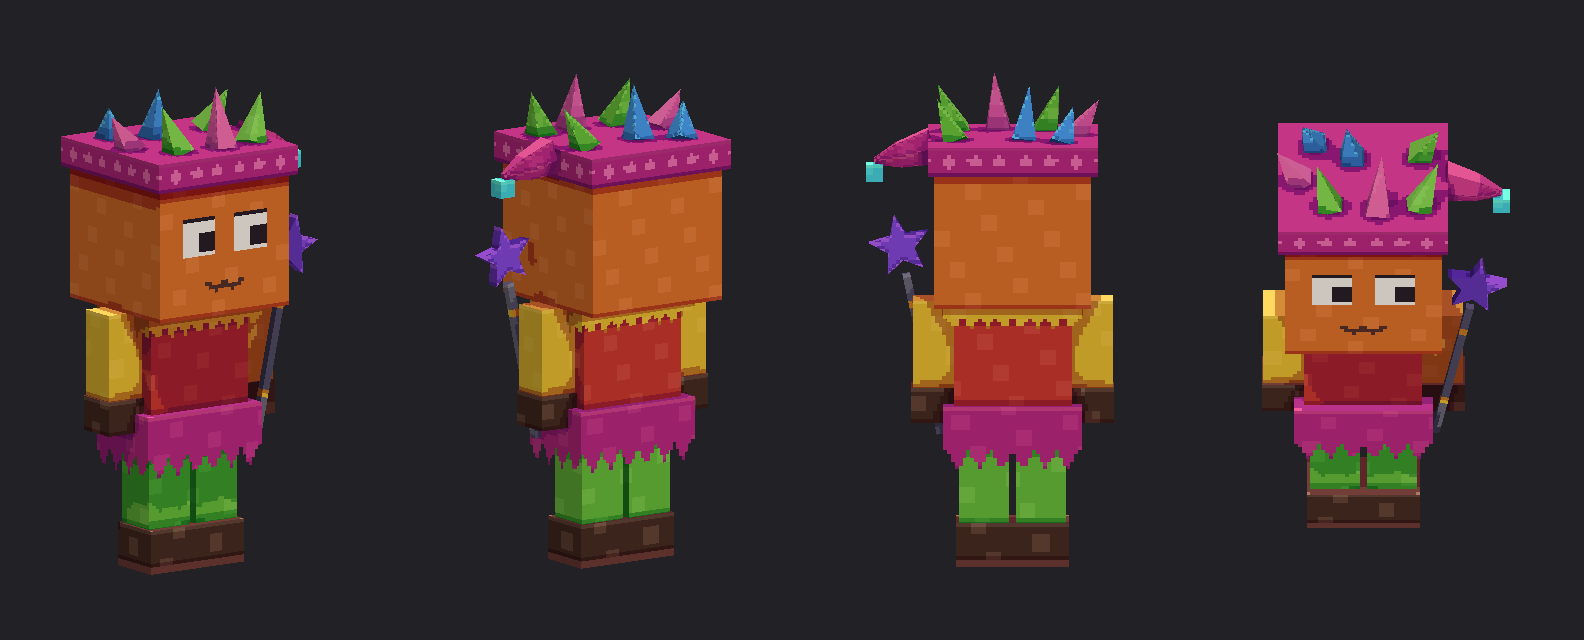
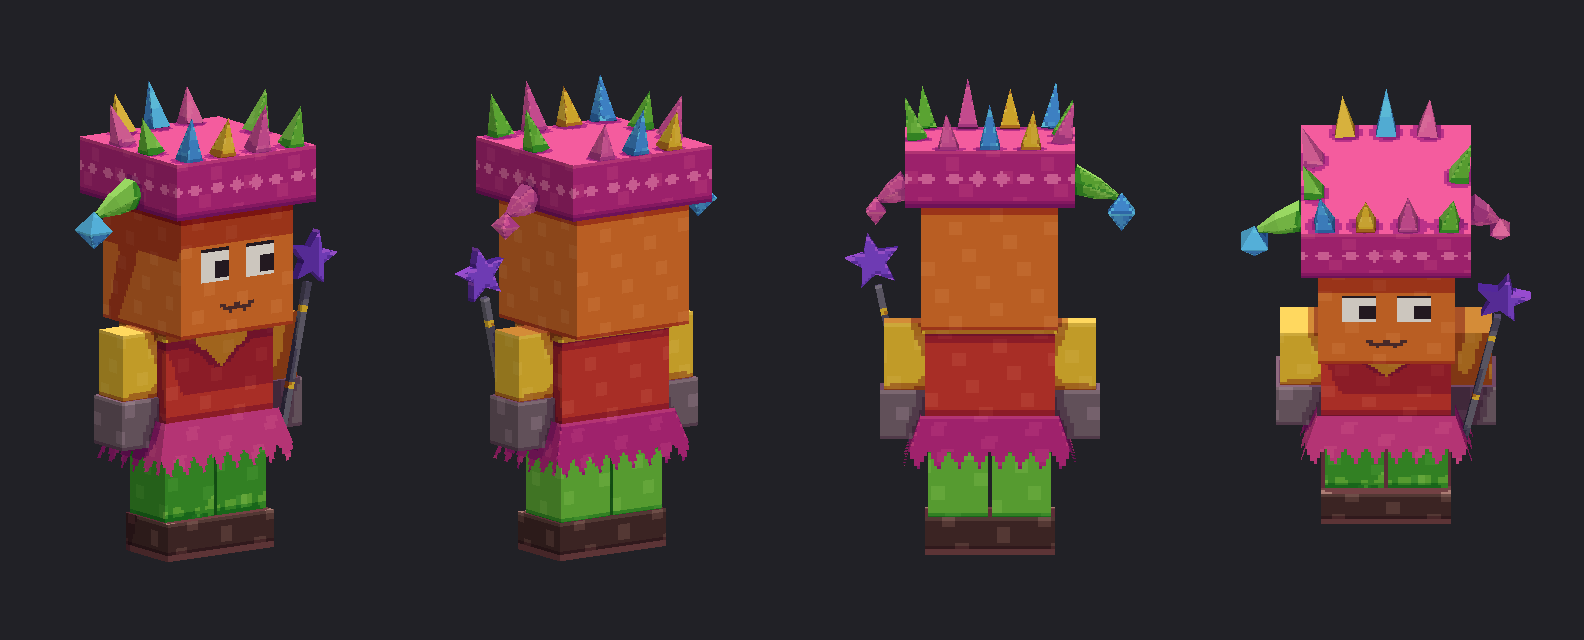
Revolthir boceto 2: las formas marcadas con rayas blancas
Siguiendo las rayas que el usuario dibujo sobre la imagen
(referencias/personajes/revolthir_bufon_rayas.jpg):
- corona de bufon en caja grande, mas ancha que la cabeza, con rombos y
  picos de colores en el borde de arriba
- dos puntas a los costados con cascabeles facetados (uno grande azul,
  uno chico rosa)
- torso rojo mas ancho con cuello amarillo en punta bajo la cara
- faldon magenta que se abre hacia abajo y termina en picos
- punos grandes, piernas verdes gruesas que se ven bajo el faldon y botas
  en bloque
Sigue con la altura de Pibble (la cabeza llega a 27; la corona y sus picos,
como las orejas de Pibble, a ~34).

Claude-Session: https://claude.ai/code/session_01JLSuk79QgXUucDMTiBYitK

diff --git a/taller/personajes/revolthir.py b/taller/personajes/revolthir.py
@@ -1,13 +1,16 @@
 """
 Revolthir, NSWY de la negacion: chibi de caos y colores calidos. Hecho a mano con el kit segun la imagen que paso el
-usuario (referencias/personajes/revolthir_bufon.jpg, un bufon voxel). Reglas: no es humano (cabeza-cubo naranja, sin piel), chibi de la misma altura que Pibble
-(nada mas que la altura), estilo propio: carnaval caotico, ni desertico, ni japones, ni de bosque.
+usuario (referencias/personajes/revolthir_bufon.jpg) y las formas que marco encima con rayas blancas
+(revolthir_bufon_rayas.jpg). Reglas: no es humano (cabeza-cubo naranja, sin piel), chibi de la misma altura que
+Pibble (nada mas que la altura), estilo propio: carnaval caotico, ni desertico, ni japones, ni de bosque.
 
-Piezas (todo cubos, como un voxel; picos y estrella en low-poly):
+Formas (todo en bloques, como la referencia; picos, cascabeles y estrella en low-poly):
   CABEZA-CUBO naranja con ojos grandes blancos que miran de reojo y una boquita en zigzag
-  CORONA DE BUFON magenta con rombos, picos de colores para todos lados y una punta caida con cascabel
-  TORSO rojo con cuello de volados amarillo; FALDON magenta con el borde en picos
-  MANGAS amarillas, GUANTES cafe, PIERNAS verdes, BOTAS cafe
+  CORONA DE BUFON: una caja grande magenta, mas ancha que la cabeza, con rombos y picos de colores en el borde de
+    arriba; a los costados, dos puntas con cascabeles facetados (uno grande azul, uno chico rosa)
+  TORSO rojo y ancho con un cuello amarillo en punta debajo de la cara; FALDON magenta que se abre hacia abajo y
+    termina en picos
+  MANGAS amarillas con PUNOS grandes; PIERNAS verdes gruesas; BOTAS en bloque
   VARITA en la mano izquierda: baston con bandas y una estrella morada
 Paleta calida y saltona, cada color con su rampa (hue shifting) y sin ruido; el volumen lo pone la luz horneada.
 """
@@ -23,18 +26,19 @@ D = 4                                   # texeles por px
 NARANJA = tonos("#E8762C")              # la cabeza
 MAGENTA = tonos("#C42A86")              # corona y faldon
 ROJO = tonos("#D23A30")                 # torso
-AMARILLO = tonos("#F2C232")             # mangas y cuello
+AMARILLO = tonos("#F2C232")             # mangas, cuello y picos
 VERDE = tonos("#6CC23C")                # piernas y picos
-CAFE = tonos("#4A2E24")                 # guantes y botas
+GUANTE = tonos("#7A6470")               # punos
+BOTA = tonos("#4A2E2C")                 # botas
 MORADO = tonos("#8A4AE0")               # la estrella
-ROSA = tonos("#E85AA8")                 # picos
-AZUL = tonos("#4A9AE8")                 # picos
-CIAN = tonos("#4AD8E0")                 # cascabel
+ROSA = tonos("#E85AA8")                 # picos y cascabel chico
+AZUL = tonos("#4A9AE8")                 # picos y cascabel grande
 GRIS = tonos("#6E6A78")                 # baston
 OJO, PUPILA = "#FFF8EE", "#1A1218"
 
-TOPE = 27.0
-CABEZA_Y = 17.0                         # la cabeza va de 17 a 27: la altura de Pibble
+TOPE = 27.0                             # la cabeza va de 17 a 27: la altura de Pibble
+CABEZA_Y = 17.0
+PIERNAS = 9.0                           # la cadera
 
 
 def voxel(rampa):
@@ -71,7 +75,7 @@ def cara(t):
             return hex_(OJO)
     puntos = [(-1.3, 2.1), (-0.65, 1.7), (0.0, 2.1), (0.65, 1.7), (1.3, 2.1)]
     if any(_trazo(u, v, puntos[k], puntos[k + 1], 0.3) for k in range(len(puntos) - 1)):
-        return hex_(CAFE["s"])
+        return hex_(BOTA["s"])
     return voxel(NARANJA)(t)
 
 
@@ -79,26 +83,32 @@ def cabeza(t):
     return cara(t) if t.cara == "north" else voxel(NARANJA)(t)
 
 
+CORONA_Y = (TOPE - 0.8, TOPE + 3.4)     # la caja de la corona
+
+
 def corona(t):
-    """Banda magenta con una fila de rombos claros."""
-    if t.cara in ("up", "down"):
+    """Caja magenta: banda oscura abajo, una fila de rombos claros al medio y el canto de arriba con luz."""
+    if t.cara == "up":
+        return hex_(MAGENTA["l"])
+    if t.cara == "down":
         return hex_(MAGENTA["s"])
     u = t.x if t.cara in ("north", "south") else t.z
-    v = t.y - (TOPE - 0.5)
-    if abs((u % 1.6) - 0.8) + abs(v) * 1.1 < 0.5:
+    y0, y1 = CORONA_Y
+    v = t.y - (y0 + y1) / 2
+    if abs((u % 1.8) - 0.9) + abs(v) * 1.1 < 0.62:
         return hex_(ROSA["l"])
-    if abs(v) > 0.72:
+    if t.y < y0 + 0.6:
         return hex_(MAGENTA["s"])
-    return hex_(MAGENTA["b"])
+    return voxel(MAGENTA)(t)
 
 
 def con_picos(base, y_abajo, alto=0.9, ancho=1.0):
-    """Recorta el borde de abajo de una caja en picos (volados de bufon)."""
+    """Recorta el borde de abajo de una pieza en picos (volados de bufon)."""
     def p(t):
         if t.cara == "down":
             return TRANSPARENTE
         if t.cara != "up":
-            u = t.x if t.cara in ("north", "south") else t.z
+            u = t.x if abs(t.n[2]) >= abs(t.n[0]) else t.z
             f = abs(((u / ancho) % 1.0) - 0.5) * 2              # 0 en la punta, 1 entre puntas
             if t.y - y_abajo < alto * f:
                 return TRANSPARENTE
@@ -106,15 +116,22 @@ def con_picos(base, y_abajo, alto=0.9, ancho=1.0):
     return p
 
 
+def babero(t):
+    """Cuello amarillo en punta: el borde de abajo baja en V hasta el centro."""
+    if t.y < CABEZA_Y - 2.9 + abs(t.x) * 0.9:
+        return TRANSPARENTE
+    return voxel(AMARILLO)(t)
+
+
 def bota(t):
-    if t.y < 0.5:
-        return hex_(CAFE["l"] if t.cara != "down" else CAFE["s"])
-    return voxel(CAFE)(t)
+    if t.y < 0.55:
+        return hex_(BOTA["l"] if t.cara != "down" else BOTA["s"])
+    return voxel(BOTA)(t)
 
 
 def baston(t):
     """Baston gris con dos bandas doradas."""
-    if 16.2 < t.y < 16.7 or 10.6 < t.y < 11.1:
+    if PIERNAS + 2.5 < t.y < PIERNAS + 3.0 or PIERNAS + 8.3 < t.y < PIERNAS + 8.8:
         return hex_(AMARILLO["b"])
     return hex_(GRIS["l"] if t.cara == "up" else GRIS["b"])
 
@@ -137,61 +154,76 @@ def pintor_estrella(cx, cy):
     return p
 
 
+def cascabel(c, lado):
+    """Cascabel facetado: un octaedro (dos piramides) de lado 'lado', como una gema."""
+    return geo.bipiramide(c, lado * 0.62, lado * 0.62, lado * 0.62, lados=4, giro=45)
+
+
+def punta(base, largo, giro):
+    """Punta de bufon: cono de 6 lados que sale de 'base' girado 'giro' grados (rz)."""
+    m = geo.loft([(0.0, 0, 0, 1.2, 1.2), (largo * 0.55, 0, 0, 0.85, 0.85), (largo, 0, 0, 0.25, 0.25)], 6, 30)
+    m = geo.girar(m, (0, 0, giro))
+    a = math.radians(giro)
+    tip = (base[0] - largo * math.sin(a), base[1] + largo * math.cos(a), base[2])
+    return geo.mover(m, base), tip
+
+
 def construir():
-    p = Personaje("revolthir", altura=27, cabeza=10, torso=(7.5, 8, 4.5), brazo=(2.6, 2.6), pierna=(3.2, 3.2))
+    p = Personaje("revolthir", altura=27, cabeza=10, torso=(9.5, 8, 5.5), brazo=(3, 3), pierna=(4.5, 4.5))
     C, T, L = p.cuello, p.tope, p.lh                           # 17, 27, 9
-    assert (C, T) == (CABEZA_Y, TOPE)
+    assert (C, T, L) == (CABEZA_Y, TOPE, PIERNAS)
 
     # ================================================================ CABEZA-CUBO y CORONA DE BUFON
     p.caja("Head/cabeza", "cabeza", (-5, C, -5), (5, T, 5), cabeza, dens=D)
-    p.caja("Head/corona", "banda", (-5.4, T - 1.5, -5.4), (5.4, T + 0.4, 5.4), corona, dens=D)
-    picos = [((-3.5, -2.9), VERDE, 3.4, (12, 0, 22)), ((-0.9, -3.3), ROSA, 4.0, (14, 0, 4)),
-             ((2.1, -2.9), VERDE, 3.2, (10, 0, -16)), ((4.0, -0.3), ROSA, 2.8, (0, 0, -32)),
-             ((0.7, 1.8), AZUL, 3.6, (-16, 0, -6)), ((-3.6, 2.2), VERDE, 3.0, (-14, 0, 24)),
-             ((3.1, 3.2), AZUL, 2.6, (-20, 0, -18))]
-    for k, ((x, z), col, alto, giro) in enumerate(picos):
-        base = geo.anillo(x, T + 0.3, z, 1.1, 1.1, 4, 45)
-        pico = geo.girar(geo.piramide(base, (x, T + 0.3 + alto, z)), giro, (x, T + 0.3, z))
-        p.malla("Head/corona", f"pico{k}", pico, voxel(col), dens=D)
-    # punta caida de bufon hacia la izquierda, con el cascabel colgando de la punta
-    largo, giro_punta = 3.8, 105.0
-    punta = geo.loft([(0.0, 0, 0, 1.3, 1.3), (2.2, 0, 0, 0.9, 0.9), (largo, 0, 0, 0.25, 0.25)], 6, 30)
-    punta = geo.girar(punta, (0, 0, giro_punta))               # acostada hacia -X y caida
-    base = (-5.1, T - 0.2, 0.4)
-    p.malla("Head/corona", "punta", geo.mover(punta, base), voxel(MAGENTA), dens=D)
-    a = math.radians(giro_punta)
-    tx, ty = base[0] - largo * math.sin(a), base[1] + largo * math.cos(a)
-    p.caja("Head/corona", "cascabel", (tx - 0.55, ty - 1.25, base[2] - 0.55), (tx + 0.55, ty - 0.15, base[2] + 0.55),
-           voxel(CIAN), dens=D)
+    y0, y1 = CORONA_Y
+    p.caja("Head/corona", "corona", (-6.2, y0, -6.2), (6.2, y1, 6.2), corona, dens=D)
+    colores = (VERDE, ROSA, AMARILLO, AZUL, VERDE, ROSA, AMARILLO, AZUL, ROSA, VERDE)
+    picos = [((-4.6, -5.3), 3.2, (-14, 0, 6)), ((-1.6, -5.3), 3.8, (-16, 0, 0)), ((1.5, -5.3), 3.0, (-14, 0, 0)),
+             ((4.5, -5.3), 3.5, (-14, 0, -6)), ((5.3, -1.6), 2.8, (0, 0, -16)), ((5.3, 2.0), 3.2, (6, 0, -16)),
+             ((3.0, 5.3), 3.0, (14, 0, -4)), ((0.0, 5.3), 3.6, (16, 0, 0)), ((-3.0, 5.3), 2.8, (14, 0, 4)),
+             ((-5.3, 0.2), 3.3, (0, 0, 16))]
+    for k, ((x, z), alto, giro) in enumerate(picos):
+        base = geo.anillo(x, y1, z, 1.05, 1.05, 4, 45)
+        pico = geo.girar(geo.piramide(base, (x, y1 + alto, z)), giro, (x, y1, z))
+        p.malla("Head/corona", f"pico{k}", pico, voxel(colores[k]), dens=D)
+    # puntas de bufon a los costados con sus cascabeles: el grande cae a la derecha del personaje, el chico a la otra
+    malla, tip = punta((6.0, y0 + 1.2, -0.5), 3.6, -112)
+    p.malla("Head/corona", "punta_der", malla, voxel(VERDE), dens=D)
+    p.malla("Head/corona", "cascabel_der", cascabel((tip[0] + 0.3, tip[1] - 1.1, tip[2]), 2.3), voxel(AZUL), dens=D)
+    malla, tip = punta((-6.0, y0 + 0.9, 0.6), 2.4, 118)
+    p.malla("Head/corona", "punta_izq", malla, voxel(ROSA), dens=D)
+    p.malla("Head/corona", "cascabel_izq", cascabel((tip[0] - 0.2, tip[1] - 0.8, tip[2]), 1.7), voxel(ROSA), dens=D)
 
-    # ================================================================ TORSO, CUELLO de volados y FALDON
-    p.caja("Body/torso", "torso", (-3.75, L, -2.25), (3.75, C, 2.25), voxel(ROJO), dens=D)
-    p.caja("Body/torso", "cuello", (-4.4, C - 1.6, -2.9), (4.4, C + 0.2, 2.9),
-           con_picos(voxel(AMARILLO), C - 1.6, 0.8, 1.05), dens=D)
-    p.caja("Body/faldon", "faldon", (-4.4, L - 2.6, -2.8), (4.4, L + 1.4, 2.8),
-           con_picos(voxel(MAGENTA), L - 2.6, 1.3, 1.4), dens=D)
+    # ================================================================ TORSO ancho, CUELLO en punta y FALDON abierto
+    p.caja("Body/torso", "torso", (-4.75, L, -2.75), (4.75, C, 2.75), voxel(ROJO), dens=D)
+    p.caja("Body/torso", "cuello", (-4.95, C - 0.6, -2.95), (4.95, C + 0.05, 2.95), voxel(AMARILLO), dens=D)
+    p.caja("Body/torso", "babero", (-2.3, C - 2.9, -3.0), (2.3, C - 0.55, -2.8), babero, dens=D)
+    falda = geo.loft([(L - 2.4, 0, 0, 6.3 / 0.7071, 4.0 / 0.7071), (L + 1.4, 0, 0, 5.05 / 0.7071, 3.05 / 0.7071)],
+                     4, 45, tapa_abajo=False, tapa_arriba=False)
+    p.malla("Body/faldon", "faldon", falda, con_picos(voxel(MAGENTA), L - 2.4, 1.3, 1.5), dens=D)
 
-    # ================================================================ BRAZOS amarillos con guantes
+    # ================================================================ BRAZOS: mangas amarillas y punos grandes
     for s in (1, -1):
         hueso = "RightArm" if s > 0 else "LeftArm"
-        x1, x2 = sorted((s * 3.75, s * 6.35))
-        g1, g2 = sorted((s * 3.65, s * 6.45))
-        p.caja(f"{hueso}/brazo", "manga", (x1, L + 2.2, -1.25), (x2, C, 1.25), voxel(AMARILLO), dens=D)
-        p.caja(f"{hueso}/brazo", "guante", (g1, L + 0.2, -1.4), (g2, L + 2.4, 1.4), voxel(CAFE), dens=D)
+        x1, x2 = sorted((s * 4.75, s * 7.75))
+        g1, g2 = sorted((s * 4.45, s * 8.05))
+        p.caja(f"{hueso}/brazo", "manga", (x1, L + 2.9, -1.5), (x2, C, 1.5), voxel(AMARILLO), dens=D)
+        p.caja(f"{hueso}/brazo", "puno", (g1, L - 0.5, -1.8), (g2, L + 3.1, 1.8), voxel(GUANTE), dens=D)
 
     # ================================================================ VARITA de estrella en la mano izquierda
     g = "LeftArm/varita"
-    giro = dict(rot=(0, 0, 12), piv=(-5.05, L + 1.3, -1.9))
-    p.caja(g, "baston", (-5.3, L - 1.0, -2.15), (-4.8, L + 9.5, -1.65), baston, dens=D, **giro)
-    cx, cy = -5.05, L + 11.3
-    malla = geo.extruir(estrella(cx, cy, 2.0, 0.9), -2.3, -1.5)
-    p.malla(g, "estrella", geo.girar(malla, (0, 0, 12), (-5.05, L + 1.3, -1.9)), pintor_estrella(cx, cy), dens=D)
+    piv = (-6.25, L + 1.4, -2.3)
+    giro = dict(rot=(0, 0, 12), piv=piv)
+    p.caja(g, "baston", (-6.5, L - 1.4, -2.55), (-6.0, L + 10.5, -2.05), baston, dens=D, **giro)
+    cx, cy = -6.25, L + 12.3
+    malla = geo.extruir(estrella(cx, cy, 2.1, 0.95), -2.7, -1.9)
+    p.malla(g, "estrella", geo.girar(malla, (0, 0, 12), piv), pintor_estrella(cx, cy), dens=D)
 
-    # ================================================================ PIERNAS verdes y BOTAS cafe
+    # ================================================================ PIERNAS verdes gruesas y BOTAS en bloque
     for s in (1, -1):
         hueso = "RightLeg" if s > 0 else "LeftLeg"
-        x1, x2 = sorted((s * 0.2, s * 3.4))
-        b1, b2 = sorted((s * 0.0, s * 3.6))
-        p.caja(f"{hueso}/pierna", "pierna", (x1, 2.6, -1.5), (x2, L, 1.5), voxel(VERDE), dens=D)
-        p.caja(f"{hueso}/bota", "bota", (b1, 0.0, -2.0), (b2, 2.8, 1.7), bota, dens=D)
+        x1, x2 = sorted((s * 0.15, s * 4.5))
+        b1, b2 = sorted((s * 0.0, s * 4.75))
+        p.caja(f"{hueso}/pierna", "pierna", (x1, 2.6, -2.2), (x2, L, 2.2), voxel(VERDE), dens=D)
+        p.caja(f"{hueso}/bota", "bota", (b1, 0.0, -2.9), (b2, 2.8, 2.4), bota, dens=D)
     return p
